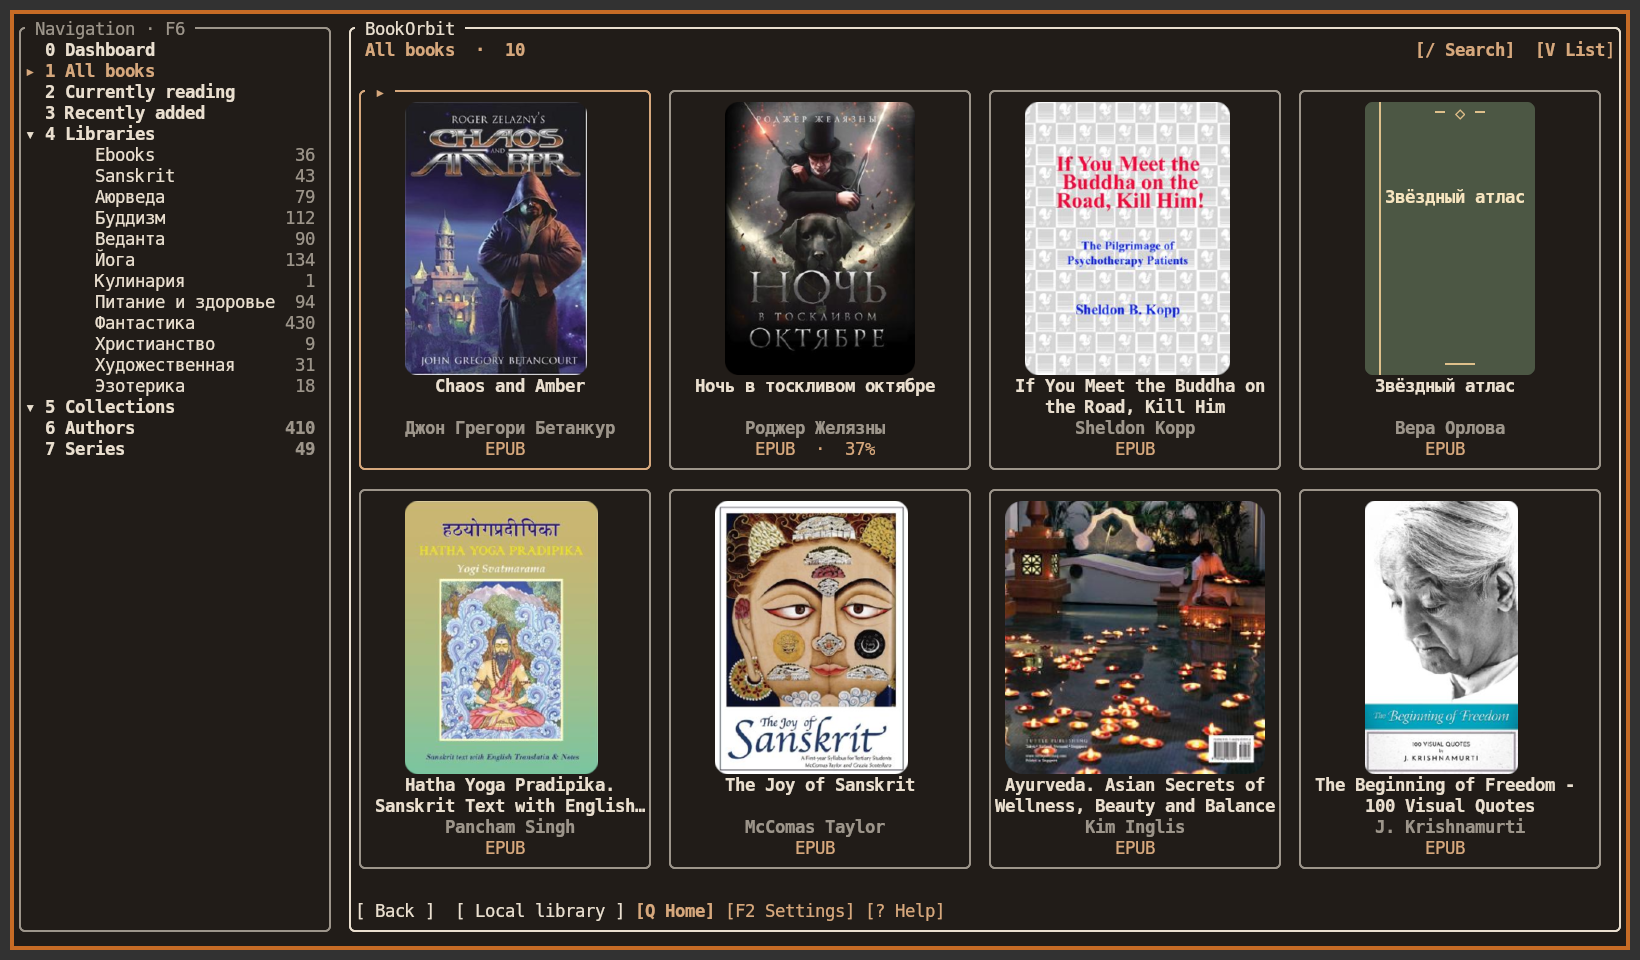
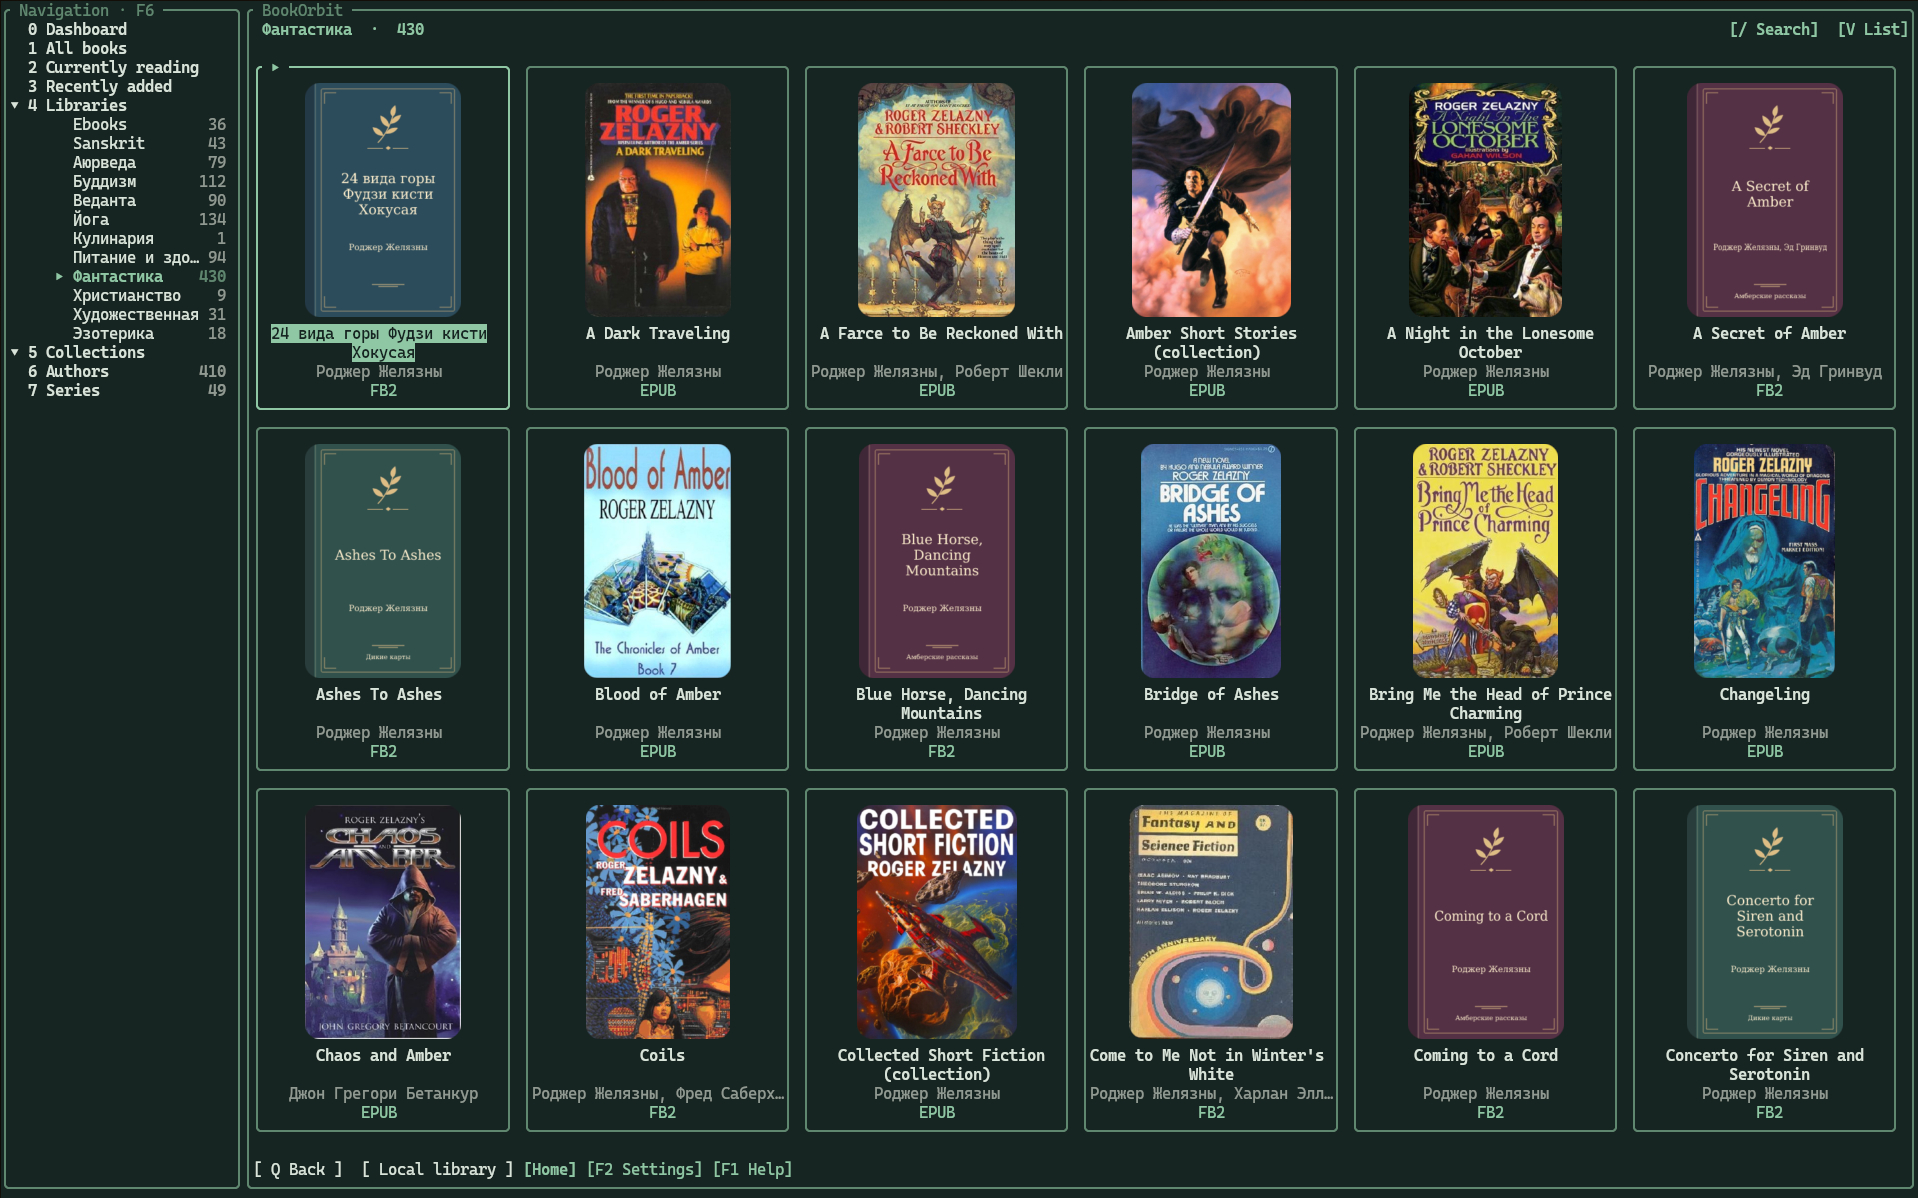
Add illustrated contents and BookOrbit shelf screenshots

diff --git a/README.md b/README.md
@@ -59,6 +59,16 @@ Click any image to open it at full size.
       <strong>Text context menu</strong><br><sub>Copy, highlight, search, translate or add a note</sub>
     </td>
   </tr>
+  <tr>
+    <td width="50%" valign="top">
+      <a href="docs/images/reading-contents.png"><img src="docs/images/reading-contents.png" alt="Contents sidebar, illustrated spread and text selection menu"></a><br>
+      <strong>Contents and illustrations</strong><br><sub>Chapter navigation alongside the illustrated book</sub>
+    </td>
+    <td width="50%" valign="top">
+      <a href="docs/images/bookorbit-shelf.png"><img src="docs/images/bookorbit-shelf.png" alt="BookOrbit library navigation and grid of book covers"></a><br>
+      <strong>BookOrbit bookshelf</strong><br><sub>Browse libraries with book covers</sub>
+    </td>
+  </tr>
 </table>
 
 <table>
